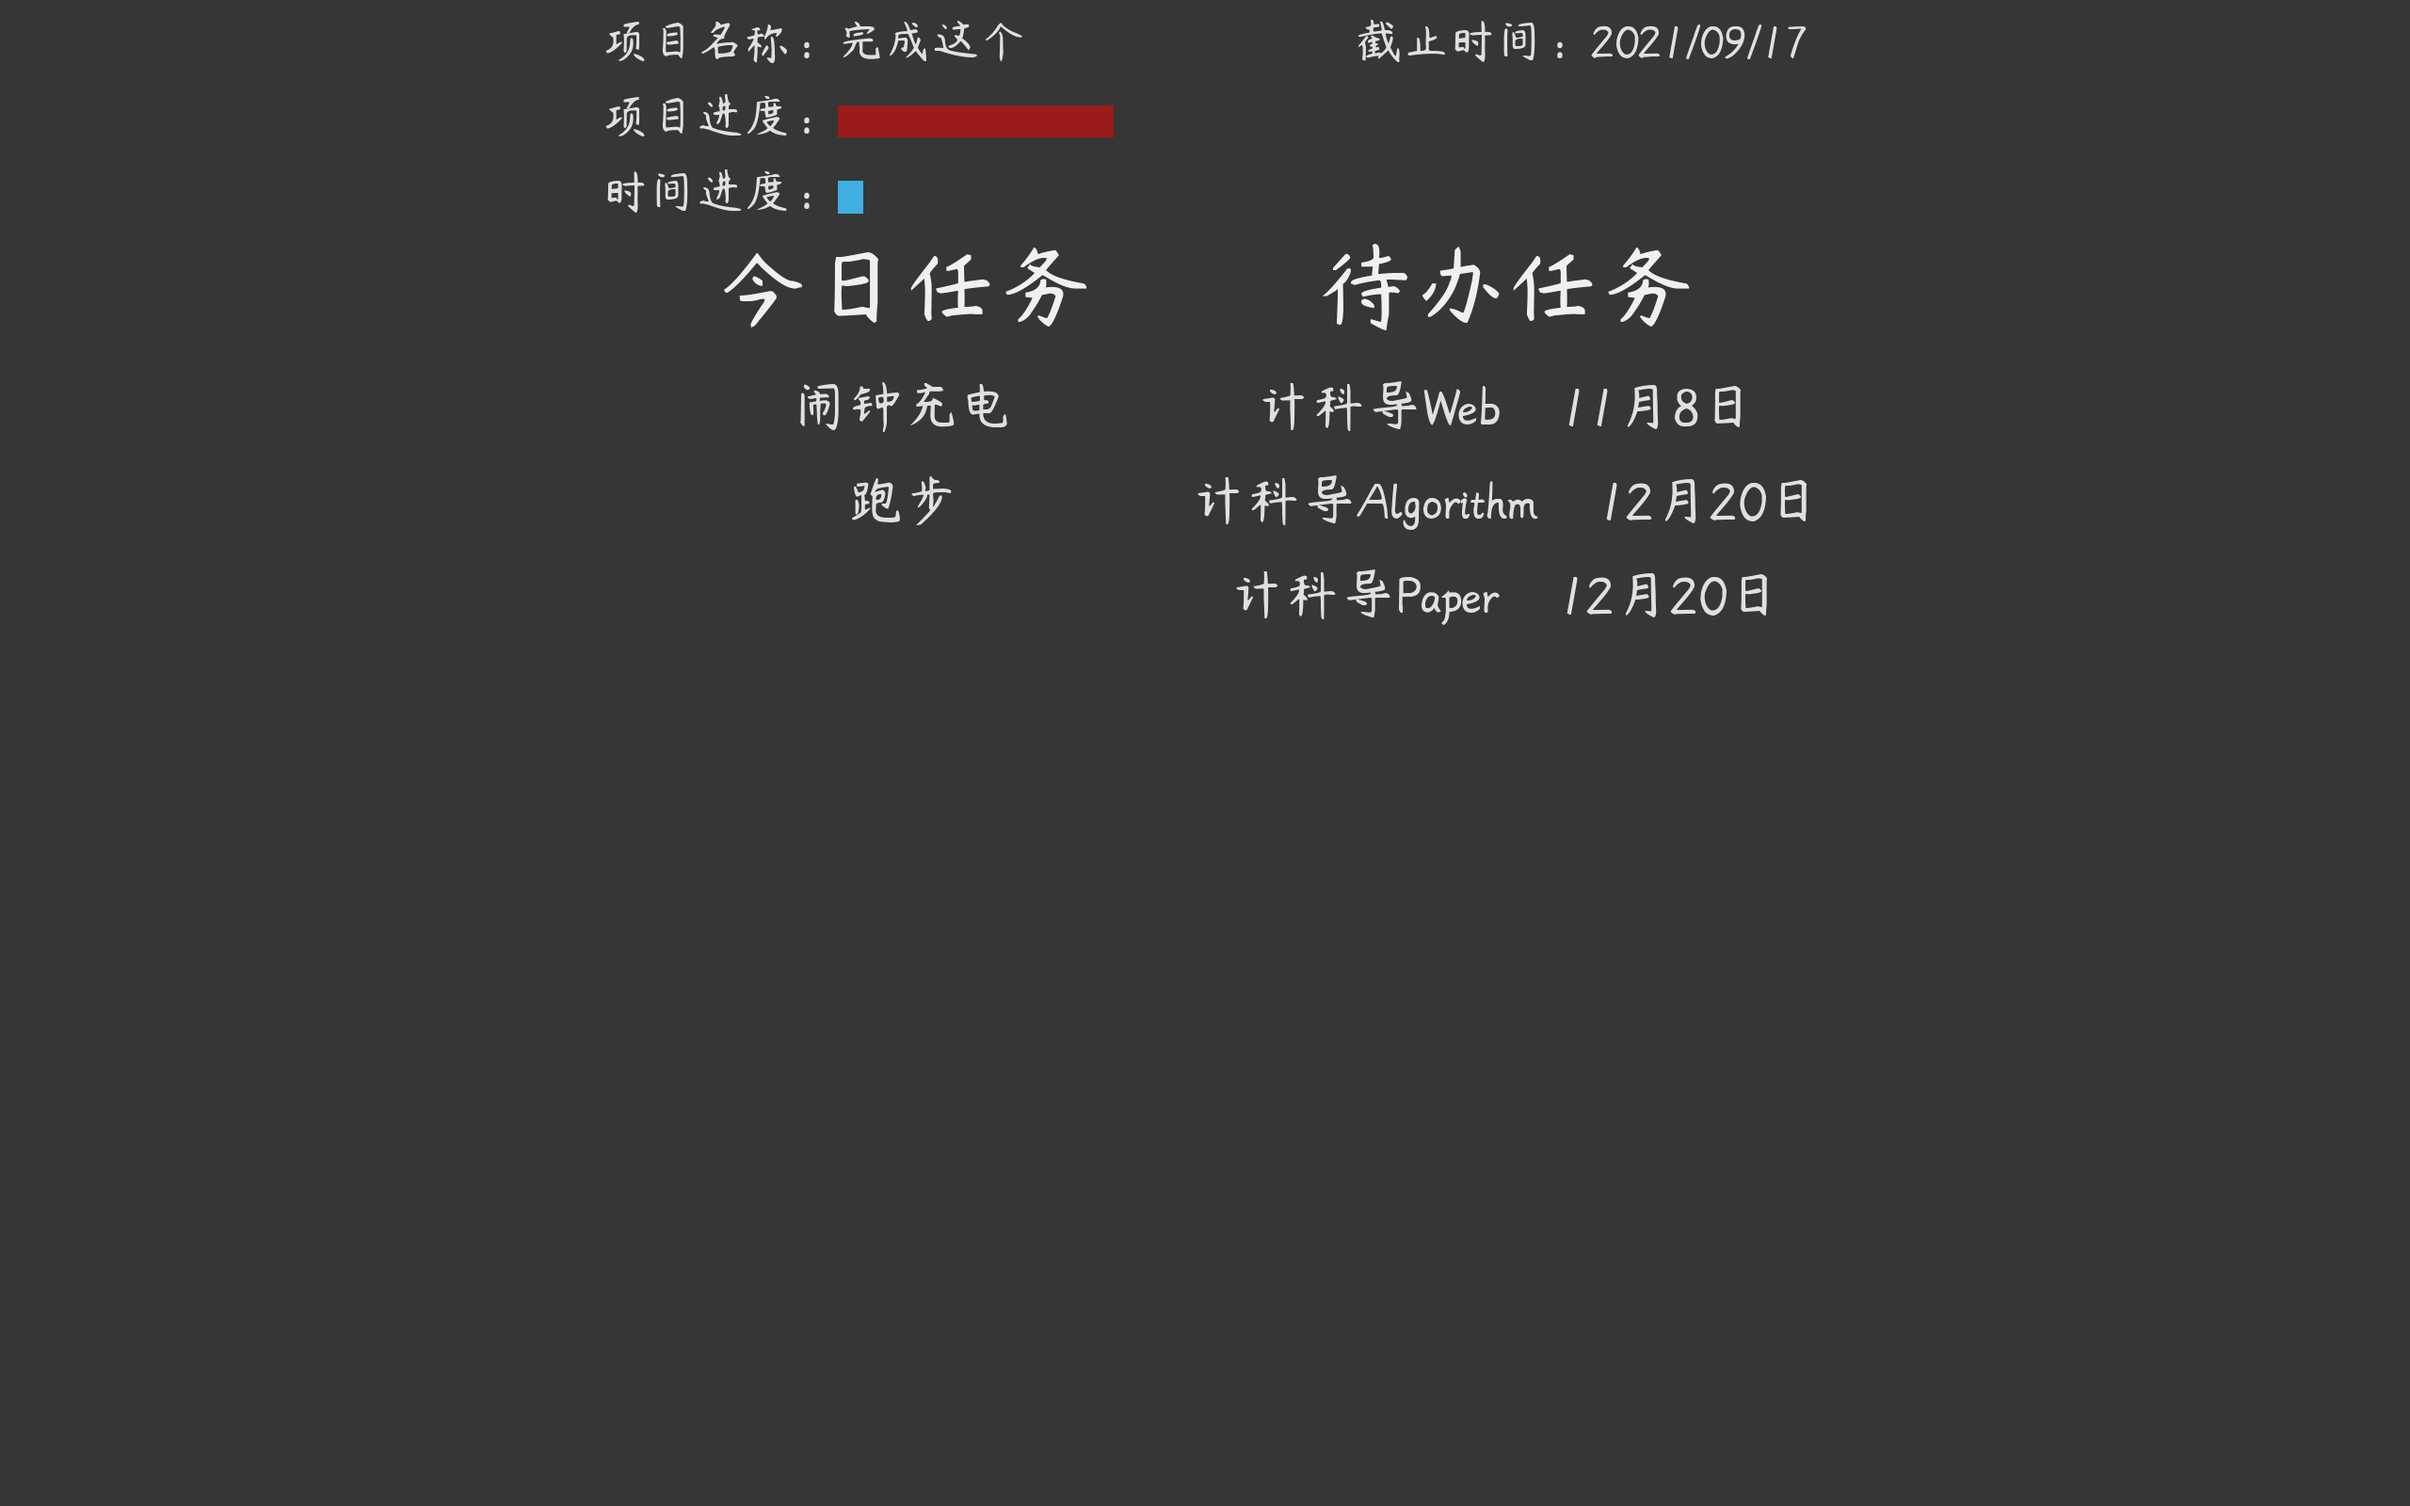
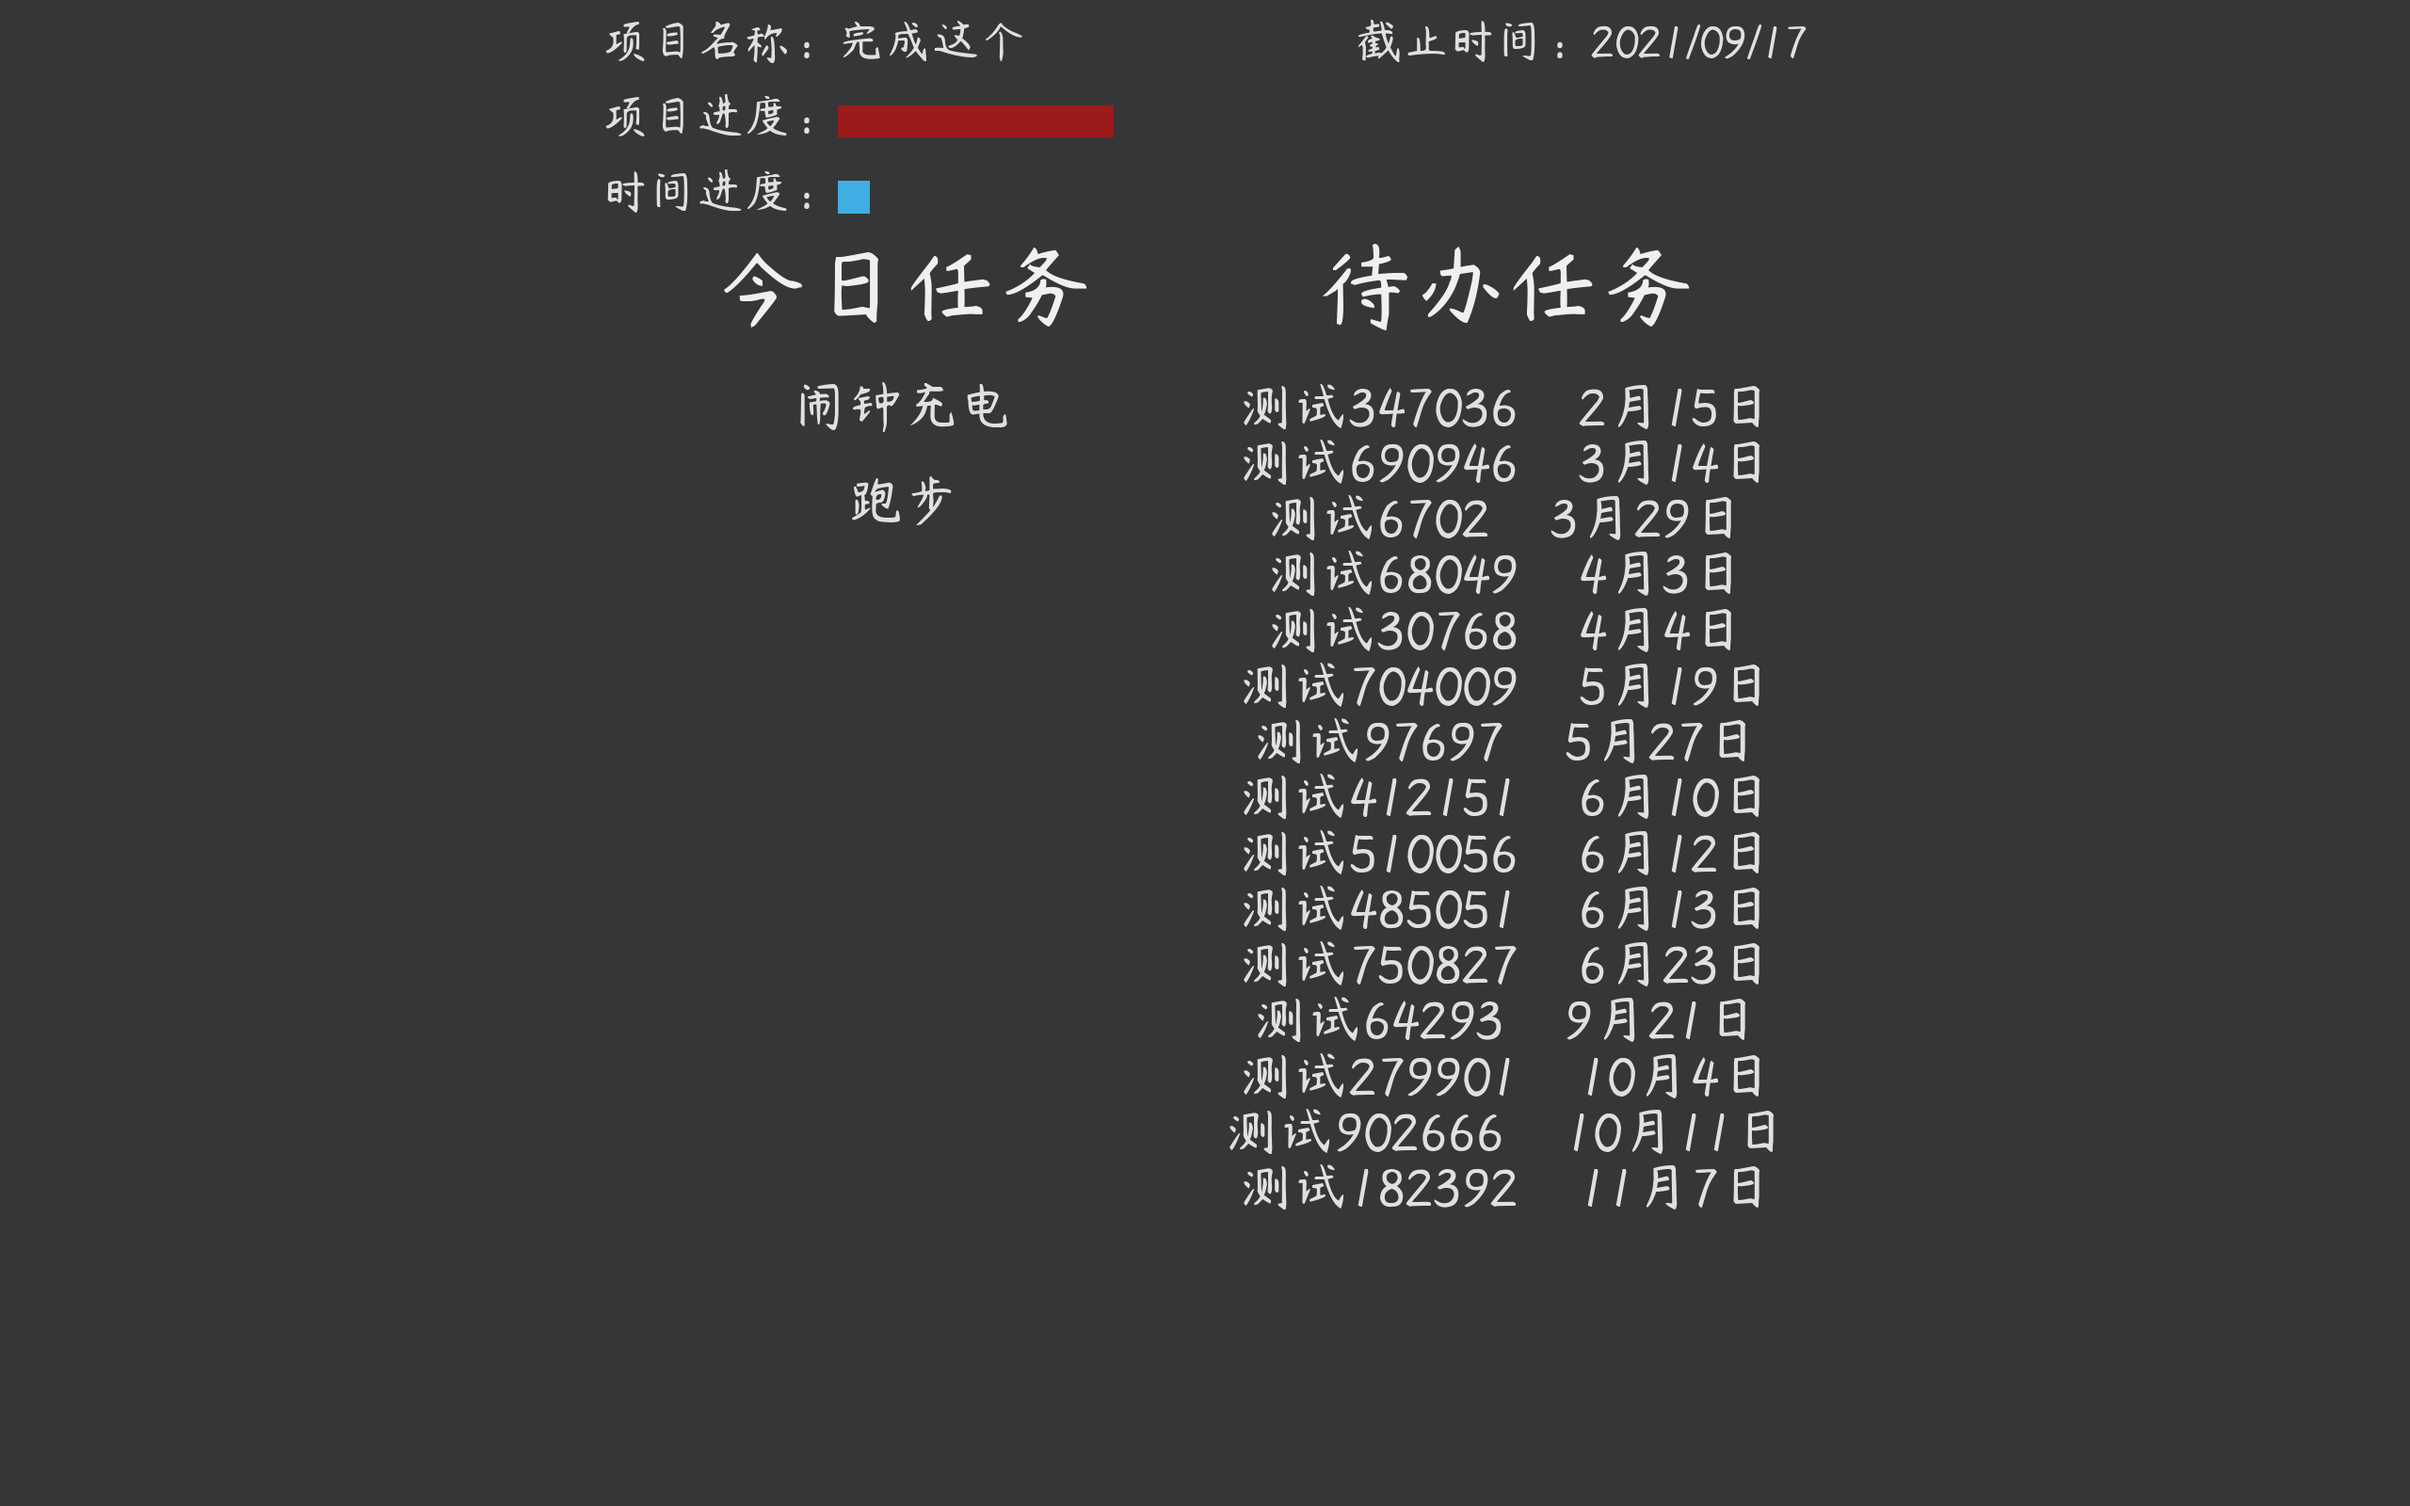
finish timetable-lessons writing

Changed region(s): [[0.5, 0.25, 0.75, 0.8125]]

diff --git a/Code/Module/Timetable/timetable.py b/Code/Module/Timetable/timetable.py
@@ -1,5 +1,100 @@
 # timetable.py
 
-def timetable_menu():
+from GlobalFunc import ensureMulChoice
+from os import system
 
+LESSON_FILE = r'Module\Timetable\lesson.txt'
+TIMETABAL_FILE = r'Module\Timetable\timetable.txt'
+
+# 读入文件中的课程，返回包含文件每一行的列表
+def lesson_in():
+    try:
+        lesson_file = open(LESSON_FILE, 'r', encoding='UTF-8')
+        lesson_list = lesson_file.readlines()
+        lesson_file.close()
+        return lesson_list
+    except:
+        return []
+
+# 打印所有课程名
+def printLesson(lesson_list):
+    # 判断课程名是否有重复
+    lesson_dict = {}
+    for lesson in lesson_list:
+        lesson_name = lesson.split(',')[0]
+        if lesson_name not in lesson_dict.keys():
+            lesson_dict[lesson_name] = False
+        else:
+            lesson_dict[lesson_name] = True
+    # 打印课程名
+    for i in range(len(lesson_list)):
+        lesson_name = lesson_list[i].split(',')[0]
+        lesson_room = lesson_list[i].split(',')[1]
+        if lesson_dict[lesson_name]:
+            print('{}. {}（{}）'.format(i + 1, lesson_name, lesson_room))
+        else:
+            print('{}. {}'.format(i + 1, lesson_name))
+        i += 1
+
+# 设置课程
+def lesson_set():
     pass
+
+# 添加课程
+def lesson_create():
+    # 获取课程名
+    lesson_name = input('请输入课程名称（输入0返回）：')
+    if lesson_name == '0':
+        return
+    # 获取上课地点
+    lesson_room = input('请输入上课地点（输入0返回）：')
+    if lesson_room == '0':
+        return
+    # 写入文件
+    lesson_file = open(LESSON_FILE, 'a', encoding='UTF-8')
+    lesson_file.write('{},{}\n'.format(lesson_name, lesson_room))
+    lesson_file.close()
+
+# 删除课程
+def lesson_delete():
+    # 读入文件
+    lesson_list = lesson_in()
+    print('请选择所要删除的课程，可用“/”分隔多个序号：')
+    printLesson(lesson_list)
+    choice = input()
+    # 检测输入合法性
+    lesson_len = len(lesson_list)
+    choice_list_str = ensureMulChoice(choice, lesson_len)
+    if choice_list_str == []:
+        return
+    # 更新文件
+
+
+# 打印课程表管理菜单
+def printTimetableMenu():
+    system('cls')
+    print('请选择课程表管理功能：')
+    print('1. 设置课程时间')
+    print('2. 创建课程')
+    print('3. 删除课程')
+    print('0. 返回上级菜单')
+
+# 课程表管理菜单
+def timetable_menu():
+    choice == '0'
+    while True:
+        printTimetableMenu()
+        if choice == '':
+            print('请输入正确的功能代号：')
+        choice = input()
+        if choice == '1':
+            lesson_set()
+        elif choice == '2':
+            lesson_create()
+        elif choice == '3':
+            lesson_delete()
+        elif choice == '0':
+            return
+        else:
+            choice = ''
+

diff --git a/Code/Project/project.py b/Code/Project/project.py
@@ -49,36 +49,36 @@ def p_update():
 # 创建长期项目
 def p_create():
     # 获取项目名
-    name = input('请输入项目名称：')
+    p_name = input('请输入项目名称：')
     # 获取项目完成时间
-    ddl = input('请输入预计完成天数或截止日期，格式位“年/月/日”：')
-    if ddl == '0':
+    p_ddl = input('请输入预计完成天数或截止日期，格式为“年/月/日”：')
+    if p_ddl == '0':
         return
     # 检测输入合法性
     while True:
         try:
-            ddl = int(ddl)
-            if ddl > 0:
+            p_ddl = int(p_ddl)
+            if p_ddl > 0:
                 ddl_type = 0
                 break
             else:
-                ddl = input('请输入正确的完成天数或截止日期：')
-                if ddl == '0':
+                p_ddl = input('请输入正确的完成天数或截止日期：')
+                if p_ddl == '0':
                     return
         except:
             try:
-                p_gmtime = time.strptime(ddl, '%Y/%m/%d')
+                p_gmtime = time.strptime(p_ddl, '%Y/%m/%d')
                 ddl_time = time.mktime(p_gmtime)
                 if ddl_time > time.time():
                     ddl_type = 1
                     break
                 else:
-                    ddl = input('请输入正确的完成天数或截止日期：')
-                    if ddl == '0':
+                    p_ddl = input('请输入正确的完成天数或截止日期：')
+                    if p_ddl == '0':
                         return
             except:
-                ddl = input('请输入正确的完成天数或截止日期：')
-                if ddl == '0':
+                p_ddl = input('请输入正确的完成天数或截止日期：')
+                if p_ddl == '0':
                     return
     # 获取需要完成的任务数
     mission_num = input('请输入项目总进度数量：')
@@ -101,13 +101,13 @@ def p_create():
     # 生成数据
     start_time = str(int(time.time()))
     if ddl_type == 0:
-        ddl_time = str(int(time.time() + ddl * 3600 * 24))
+        ddl_time = str(int(time.time() + p_ddl * 3600 * 24))
     else:
-        ddl_time = str(int(time.mktime(time.strptime(ddl, '%Y/%m/%d'))))
+        ddl_time = str(int(time.mktime(time.strptime(p_ddl, '%Y/%m/%d'))))
     mission_num = str(mission_num)
     # 写入文件
     p_file = open(PROJECT_FILE, 'w', encoding='UTF-8')
-    p_file.write('{},{},{},{},{}'.format(name, start_time, ddl_time, mission_num, '0'))
+    p_file.write('{},{},{},{},{}'.format(p_name, start_time, ddl_time, mission_num, '0'))
     p_file.close()
     input('创建成功！按回车返回')
 

diff --git a/Code/Event/event.py b/Code/Event/event.py
@@ -1,7 +1,8 @@
 # event.py
 
-from time import strptime
 from Event import e_io
+from GlobalFunc import ensureMulChoice
+from time import strptime
 
 # 创建长期任务
 def e_create():
@@ -42,26 +43,10 @@ def e_delete():
     if choice == '0':
         return
     # 检测输入合法性
-    while True:
-        choice_list_str = choice.split('/')
-        ensure = True
-        for c in choice_list_str:
-            try:
-                c = int(c)
-                if c <= 0 or c> len(event_list):
-                    ensure = False
-                    break
-                else:
-                    continue
-            except:
-                ensure = False
-                break
-        if ensure == False:
-            choice = input('请输入正确的序号：')
-            if choice == '0':
-                return
-        else:
-            break
+    e_len = len(event_list)
+    choice_list_str = ensureMulChoice(choice, e_len)
+    if choice_list_str == []:
+        return
     # 删除列表中的对象
     choice_list_int = []
     for choice in choice_list_str:

diff --git a/Code/Routine/routine.py b/Code/Routine/routine.py
@@ -1,6 +1,7 @@
 # routine.py
 
 from Routine import r_io
+from GlobalFunc import ensureMulChoice
 import time
 
 # 创建周期任务
@@ -73,12 +74,13 @@ def r_finish():
                 routine_dict[index] = j
                 index += 1
         j += 1
+    # 获取输入
     choice = input()
     if choice == '0':
         return
     # 检测输入合法性
     r_len = len(routine_dict.keys())
-    choice_list_str = ensureChoice(choice, r_len)
+    choice_list_str = ensureMulChoice(choice, r_len)
     if choice_list_str == []:
         return
     # 标记列表中的对象
@@ -117,7 +119,7 @@ def r_delete():
         return
     # 检测输入合法性
     r_len = len(routine_list)
-    choice_list_str = ensureChoice(choice, r_len)
+    choice_list_str = ensureMulChoice(choice, r_len)
     if choice_list_str == []:
         return
     # 删除列表中的对象

diff --git a/Code/GlobalFunc.py b/Code/GlobalFunc.py
@@ -1,0 +1,25 @@
+# GlobalFunc.py
+
+# 检测多项选择的合法性
+def ensureMulChoice(choice, length):
+    while True:
+        choice_list_str = choice.split('/')
+        ensure = True
+        for c in choice_list_str:
+            try:
+                c = int(c)
+                if c <= 0 or c > length:
+                    ensure = False
+                    break
+                else:
+                    continue
+            except:
+                ensure = False
+                break
+        if ensure == False:
+            choice = input('请输入正确的序号：')
+            if choice == '0':
+                return []
+        else:
+            break
+    return choice_list_str

diff --git a/Code/Todo.py b/Code/Todo.py
@@ -32,7 +32,7 @@ def printMenu():
     print('0. 退出程序')
 
 def main():
-    choice = 0
+    choice = '0'
     while True:
         printMenu()
         if choice == '':
@@ -53,7 +53,7 @@ if __name__ == '__main__':
     # 添加随机测试数据
     # from random import randint
     # for i in range(20):
-    #     r_io.r_out_new('测试{}'.format(randint(0, 999999)), randint(0, 99))
+    #     # r_io.r_out_new('测试{}'.format(randint(0, 999999)), randint(0, 99))
     #     e_io.e_out_new('测试{}'.format(randint(0, 999999)), '{}/{}/{}'.format(2021, randint(1, 12), randint(1, 30)))
 
     # paint.generateWallpaper()
